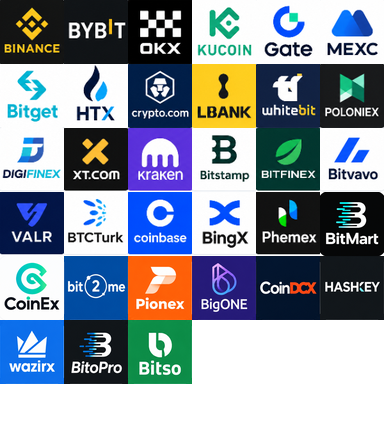
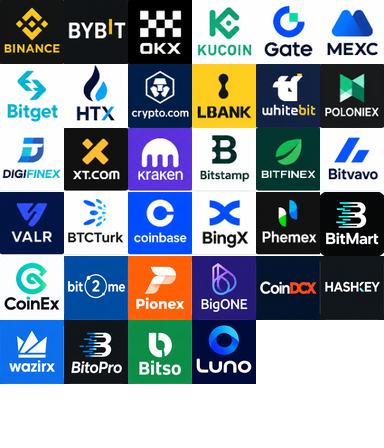
Add files via upload

Changed region(s): [[0.5, 0.6875, 0.6875, 0.875]]

diff --git a/app.js b/app.js
@@ -678,8 +678,8 @@ function paintCoin(c) {
 }
 
 /* ---------- coin news ---------- */
-const EX_NAMES = { binance: "Binance", bybit: "Bybit", okx: "OKX", kucoin: "KuCoin", gate: "Gate", mexc: "MEXC", bitget: "Bitget", htx: "HTX", cryptocom: "Crypto.com", lbank: "LBank", whitebit: "WhiteBIT", bitmart: "BitMart", coinex: "CoinEx", poloniex: "Poloniex", digifinex: "DigiFinex", xt: "XT", kraken: "Kraken", bitstamp: "Bitstamp", bitfinex: "Bitfinex", bitvavo: "Bitvavo", valr: "VALR", btcturk: "BTCTurk", coinbase: "Coinbase", bingx: "BingX", phemex: "Phemex", bit2me: "Bit2Me", pionex: "Pionex", bigone: "BigONE", coindcx: "CoinDCX", hashkey: "HashKey", wazirx: "WazirX", bitopro: "BitoPro", bitso: "Bitso" };
-const EX_ORDER = ["binance", "bybit", "okx", "kucoin", "gate", "mexc", "bitget", "htx", "cryptocom", "lbank", "whitebit", "poloniex", "digifinex", "xt", "kraken", "bitstamp", "bitfinex", "bitvavo", "valr", "btcturk", "coinbase", "bingx", "phemex", "bitmart", "coinex", "bit2me", "pionex", "bigone", "coindcx", "hashkey", "wazirx", "bitopro", "bitso"];
+const EX_NAMES = { binance: "Binance", bybit: "Bybit", okx: "OKX", kucoin: "KuCoin", gate: "Gate", mexc: "MEXC", bitget: "Bitget", htx: "HTX", cryptocom: "Crypto.com", lbank: "LBank", whitebit: "WhiteBIT", bitmart: "BitMart", coinex: "CoinEx", poloniex: "Poloniex", digifinex: "DigiFinex", xt: "XT", kraken: "Kraken", bitstamp: "Bitstamp", bitfinex: "Bitfinex", bitvavo: "Bitvavo", valr: "VALR", btcturk: "BTCTurk", coinbase: "Coinbase", bingx: "BingX", phemex: "Phemex", bit2me: "Bit2Me", pionex: "Pionex", bigone: "BigONE", coindcx: "CoinDCX", hashkey: "HashKey", wazirx: "WazirX", bitopro: "BitoPro", bitso: "Bitso", luno: "Luno" };
+const EX_ORDER = ["binance", "bybit", "okx", "kucoin", "gate", "mexc", "bitget", "htx", "cryptocom", "lbank", "whitebit", "poloniex", "digifinex", "xt", "kraken", "bitstamp", "bitfinex", "bitvavo", "valr", "btcturk", "coinbase", "bingx", "phemex", "bitmart", "coinex", "bit2me", "pionex", "bigone", "coindcx", "hashkey", "wazirx", "bitopro", "bitso", "luno"];
 function exBadge(key) {
   let h = 0;
   for (const ch of String(key)) h = (h * 31 + ch.charCodeAt(0)) % 360;
@@ -772,7 +772,7 @@ async function loadCoinExtras(c) {
   } catch (_) {}
 }
 // Quote currency each exchange feed uses (all others are USDT; "" = mixed, show the coin only)
-const EX_QUOTE = { coinbase: "USD", kraken: "USD", bitstamp: "USD", bitfinex: "USD", bitvavo: "EUR", valr: "", bit2me: "EUR", bitso: "" };
+const EX_QUOTE = { coinbase: "USD", kraken: "USD", bitstamp: "USD", bitfinex: "USD", bitvavo: "EUR", valr: "", bit2me: "EUR", bitso: "", luno: "" };
 async function loadCoinMarkets(c) {
   try {
     const box = $("#coinMarkets");
